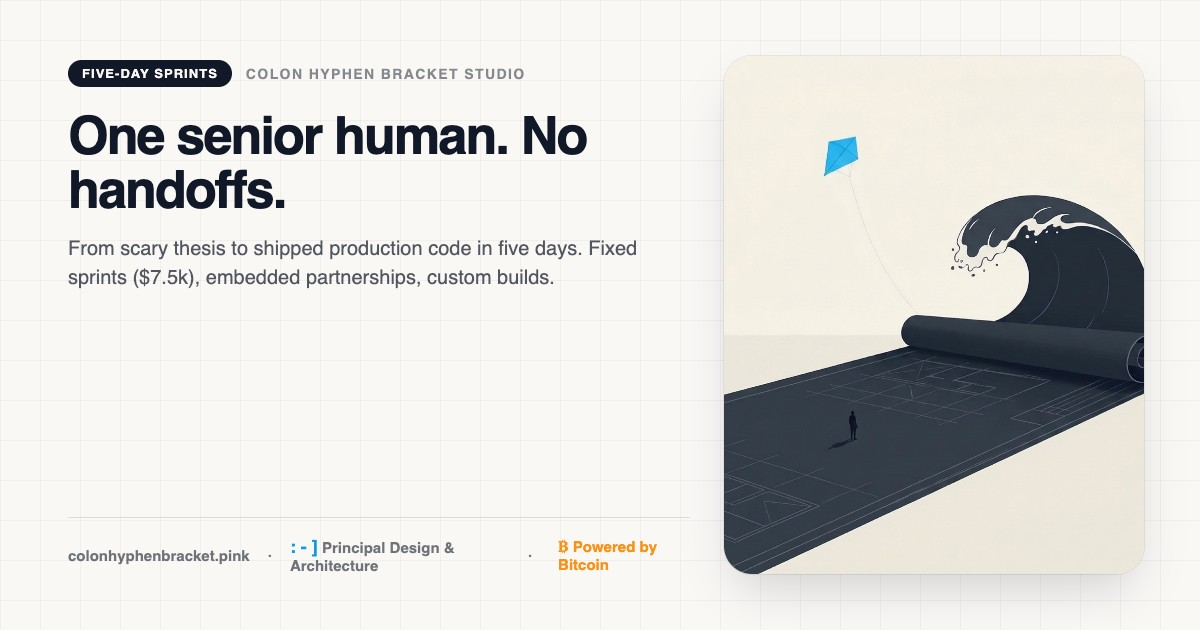
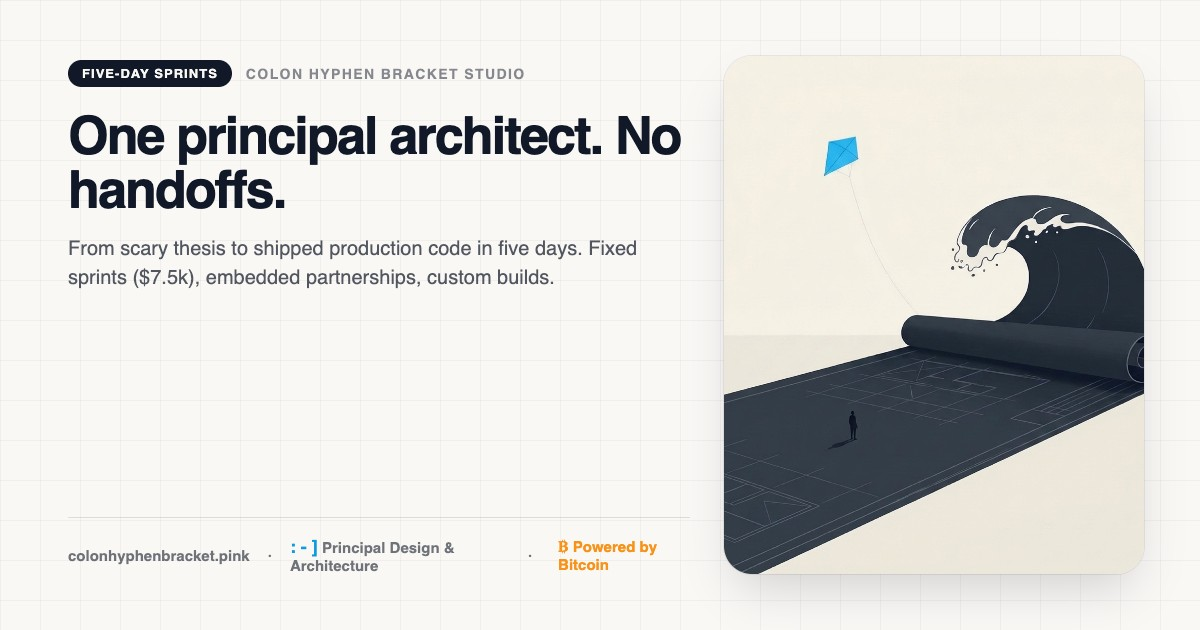
fix: replace 'senior human' with 'principal architect' across site copy, studio hero, and social cards

Changed region(s): [[0.1542, 0.181, 0.5858, 0.2714], [0.1233, 0.2413, 0.1542, 0.2714]]

diff --git a/client/index.html b/client/index.html
@@ -22,7 +22,7 @@
     <!-- Open Graph (for iMessage, WhatsApp, Slack, LinkedIn, Facebook, Twitter) -->
     <meta property="og:site_name" content="Colon Hyphen Bracket" />
     <meta property="og:title" content="Colon Hyphen Bracket : - ] | Principal Design, Software Architecture &amp; Independent Tools" />
-    <meta property="og:description" content="We turn the scary parts of software into a smile. One senior human, zero handoffs. From gnarly thesis to shipped production code in five days. Powered by Bitcoin." />
+    <meta property="og:description" content="We turn the scary parts of software into a smile. One principal designer-architect, zero handoffs. From gnarly thesis to shipped production code in five days. Powered by Bitcoin." />
     <meta property="og:type" content="website" />
     <meta property="og:url" content="https://colonhyphenbracket.pink/" />
     <meta property="og:image" content="https://colonhyphenbracket.pink/images/og/og-home.jpg" />
@@ -35,7 +35,7 @@
     <!-- Twitter / X Cards -->
     <meta name="twitter:card" content="summary_large_image" />
     <meta name="twitter:title" content="Colon Hyphen Bracket : - ] | Principal Design, Software Architecture &amp; Independent Tools" />
-    <meta name="twitter:description" content="We turn the scary parts of software into a smile. One senior human, zero handoffs. From gnarly thesis to shipped production code in five days. Powered by Bitcoin." />
+    <meta name="twitter:description" content="We turn the scary parts of software into a smile. One principal designer-architect, zero handoffs. From gnarly thesis to shipped production code in five days. Powered by Bitcoin." />
     <meta name="twitter:image" content="https://colonhyphenbracket.pink/images/og/og-home.jpg" />
 
     <!-- Structured Data -->

diff --git a/client/src/pages/home.tsx b/client/src/pages/home.tsx
@@ -177,7 +177,7 @@ const MCOL = ["#FE299E", "#0A9BE0", "#3FA535"];
 const OPINIONS = [
   { id: "op-0", mark: ": - ]", line: "Scary is a design problem.", note: "If people are afraid of your product, that's on us, not them. Fear is just complexity nobody bothered to explain." },
   { id: "op-1", mark: "#", line: "Explicit bias beats fake neutrality.", note: "We have opinions. We tell you what they are. You're smart enough to disagree." },
-  { id: "op-2", mark: "; - ]", line: "One senior human beats four handoffs.", note: "Strategy, design, and code in one head. No telephone game, no translation tax." },
+  { id: "op-2", mark: "; - ]", line: "One principal beats four handoffs.", note: "Strategy, design, and code in one head. No telephone game, no translation tax." },
   { id: "op-3", mark: "|||", line: "Independent means uncompromised.", note: "No VC to please. Curators keep 70% of what they create. We answer to the people who use the software." },
   { id: "op-4", mark: "é", line: "Craft is how you scale.", note: "Clean architecture and a real design system are what let small teams act big." },
   { id: "op-5", mark: "❀", line: "Your data is yours. Full stop.", note: "Local-first, private by default. Marigold analyzes data in your browser; we never sell, mine, or train on what you make." },

diff --git a/client/src/pages/studio.tsx b/client/src/pages/studio.tsx
@@ -74,7 +74,7 @@ export default function StudioPage() {
   return (
     <div className="brand-canvas min-h-screen">
       <Seo
-        title="Studio | Colon Hyphen Bracket : - ] — One Senior Human. No Handoffs."
+        title="Studio | Colon Hyphen Bracket : - ] — One Principal Architect. No Handoffs."
         description="From scary thesis to shipped production code in five days. Fixed one-week sprints ($7,500), embedded partnerships, and custom builds by principal designer-architect Kyle Cyree."
         path="/studio"
         image="/images/og/og-studio.jpg"
@@ -84,7 +84,7 @@ export default function StudioPage() {
       <section className="pt-28 sm:pt-40 pb-16 sm:pb-24">
         <div className="max-w-[1400px] mx-auto px-5 sm:px-8 lg:px-12">
           <h1 className="font-display font-bold text-mega">
-            <RiseLines immediate lines={["One senior human.", <span key="n" className="text-[#FE299E]">No handoffs.</span>]} />
+            <RiseLines immediate lines={["One principal architect.", <span key="n" className="text-[#FE299E]">No handoffs.</span>]} />
           </h1>
           <FadeUp delay={0.3} className="mt-8 sm:mt-12 grid lg:grid-cols-12 gap-8 sm:gap-10">
             <p className="lg:col-span-7 text-lg sm:text-2xl leading-[1.45] text-[#111827]/80">

diff --git a/client/src/components/brand/scary-words.tsx b/client/src/components/brand/scary-words.tsx
@@ -15,7 +15,7 @@ export const HOME_SCARY_PAIRS: ScaryPair[] = [
 ];
 
 export const STUDIO_SCARY_PAIRS: ScaryPair[] = [
-  { scary: "four-person handoffs", friendly: "one senior human" },
+  { scary: "four-person handoffs", friendly: "one principal" },
   { scary: "six-month discovery", friendly: "a five-day sprint" },
   { scary: "bloated agency retainers", friendly: "shipped code" },
   { scary: "Figma-to-nowhere", friendly: "working software" },
